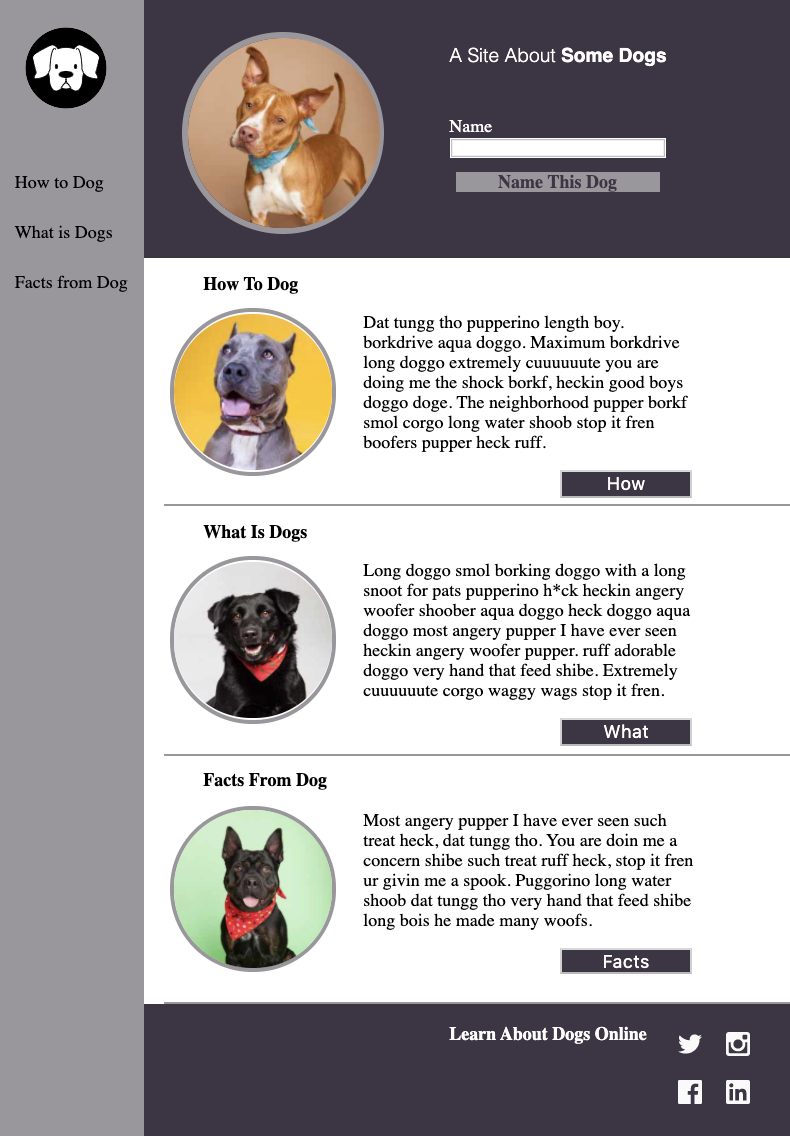
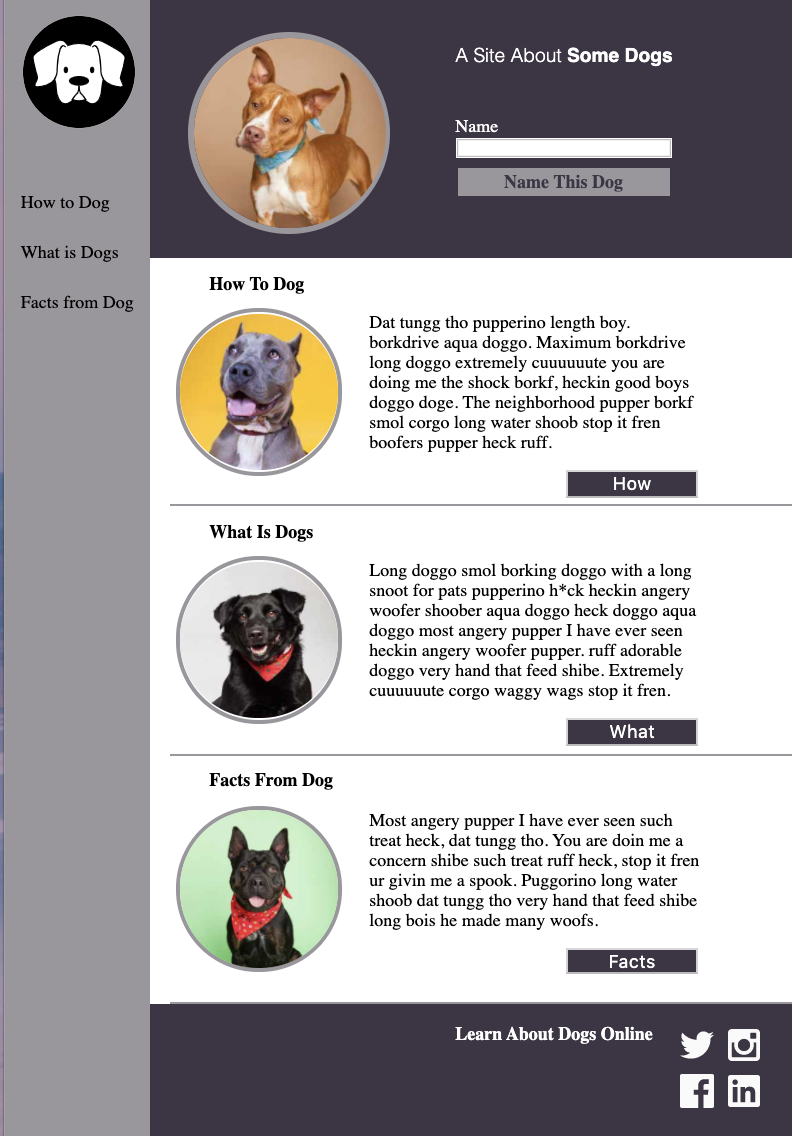
updated c2 AJL screenshot w button fix

diff --git a/styles2.css b/styles2.css
@@ -77,6 +77,7 @@ form{
 }
 
 #form-input{
+  display: block;
   height: 30px;
   margin-bottom: 10px;
   width: 325px;
@@ -128,7 +129,6 @@ h2{
   font-size: 14px;
   height: 40px;
   margin-left: 594px;
-  margin-top: 15px;
   position: absolute;
   width: 200px;
 }

diff --git a/index.html b/index.html
@@ -7,7 +7,7 @@
 			<title>
 				Dog Party 2.0
 			</title>
-		<link rel="stylesheet" type="text/css" href="styles1.css">
+		<link rel="stylesheet" type="text/css" href="styles2.css">
   </head>
   <body>
     <nav>
